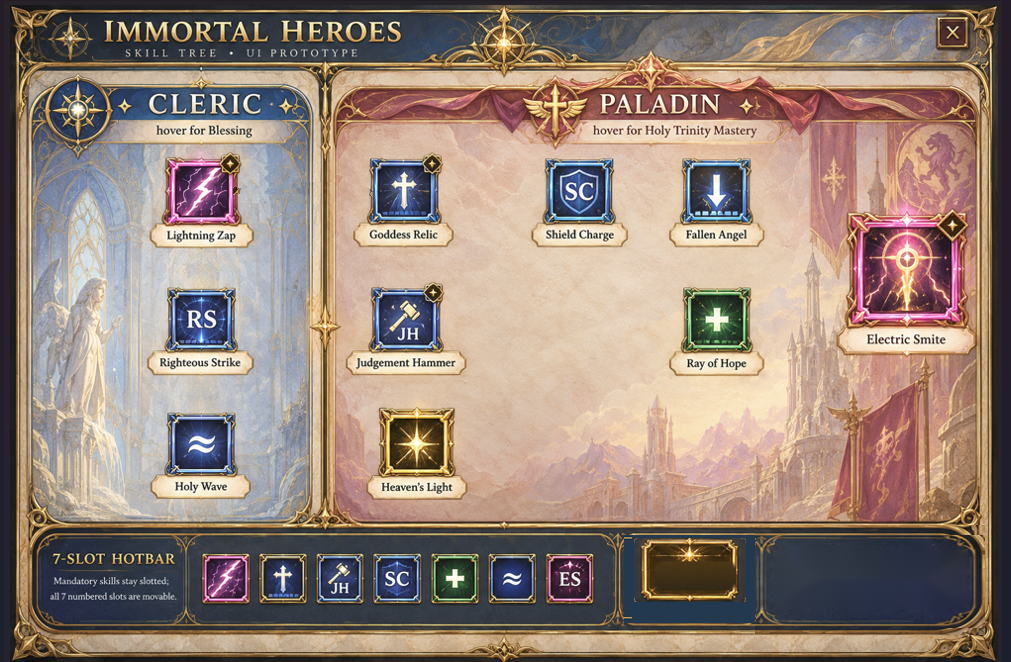
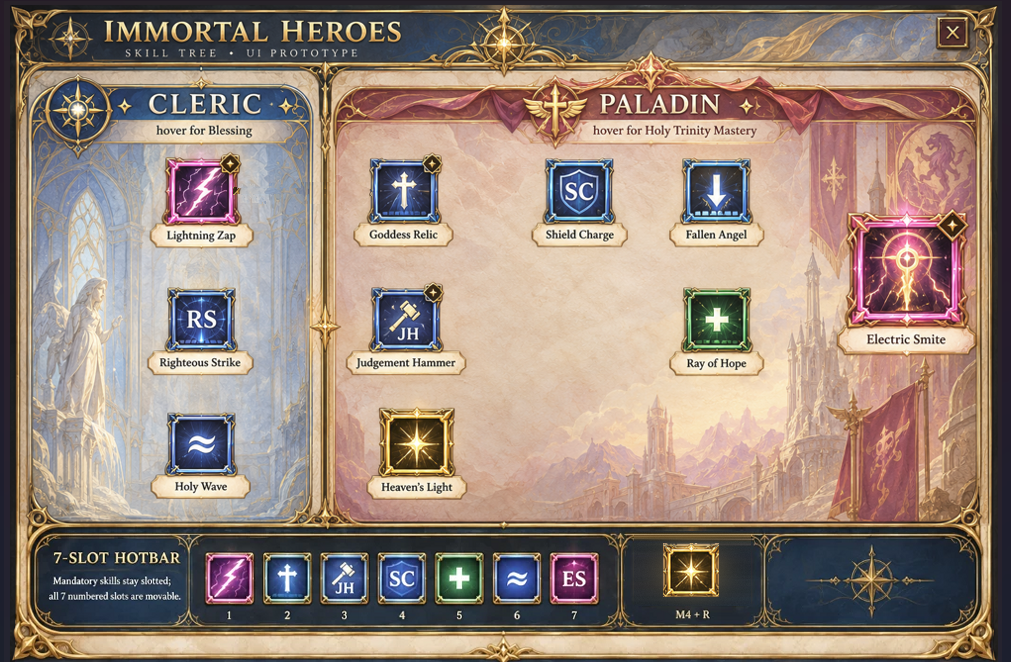
WIP v0.15.0: footer/Grace/Tier-button assets + preview tooling (pending approval)
- tools/build_ui_assets.py: composites approved target footer onto the
  reference, slot-style Grace box, Tier +/- buttons, Confirm plaque
- tools/render_preview.py + docs/previews/PREVIEW_v0.15.0_*.png
- Source art kept in docs/source_art/
Code not yet updated to use the new assets.

Claude-Session: https://claude.ai/code/session_01XpdCpqX2P5cHTKtzw8jsN7

Changed region(s): [[0.0, 0.7855, 0.9812, 1.0]]

diff --git a/tools/build_ui_assets.py b/tools/build_ui_assets.py
@@ -1,0 +1,176 @@
+"""Builds Immortal Heroes UI assets from source art.
+
+v0.15.0:
+- Footer (Hotbar area) of the Cleric/Paladin reference is replaced with the approved target
+  footer (docs/source_art/Footer_Target.webp), mapped onto the reference frame geometry.
+- The wide Heaven's Light box becomes a slot-style Grace box (slightly larger than a skill slot).
+- Generates the +/- Tier buttons and the CONFIRM plaque.
+
+Usage: python3 tools/build_ui_assets.py   (needs Pillow + numpy)
+"""
+import os
+import numpy as np
+from PIL import Image, ImageDraw, ImageFilter
+
+ROOT = os.path.dirname(os.path.dirname(os.path.abspath(__file__)))
+SRC = os.path.join(ROOT, "docs", "source_art")
+OUT = os.path.join(ROOT, "ImmortalHeroesAssets")
+
+REF_W, REF_H = 1011, 662
+SEAM_Y = 526  # inside the dark band between the tree panels and the footer frame
+
+# Reference -> target(1011-space) mapping measured from the frame geometry.
+#   x: ref 17..990  -> tgt 16..1000
+#   y: ref 523.5..656.5 -> tgt 521.5..652
+AX = (1000 - 16) / (990 - 17)
+BX = 16 - 17 * AX
+AY = (652 - 521.5) / (656.5 - 523.5)
+BY = 521.5 - 523.5 * AY
+
+# Grace box geometry (reference space).
+SLOT = 49            # numbered hotbar slot size in the new footer
+GRACE = 56           # Grace slot: slightly larger, distinct gold frame
+GRACE_CX = 691
+GRACE_BOTTOM = 597   # bottoms align with the numbered slots
+
+
+def composite_footer(ref, target):
+    tw, th = target.size
+    sx, sy = tw / 1011.0, th / 662.0
+    # PIL affine maps output(ref) pixel -> input(target original) pixel.
+    warped = target.transform(
+        (REF_W, REF_H), Image.AFFINE,
+        (AX * sx, 0, BX * sx, 0, AY * sy, BY * sy),
+        resample=Image.BICUBIC)
+    out = ref.copy()
+    # Only inside the outer frame (x 15..993); the window margin keeps the reference pixels.
+    out.paste(warped.crop((15, SEAM_Y, 993, REF_H)), (15, SEAM_Y))
+    # 3px cross-fade so the seam is invisible.
+    for i in range(3):
+        y = SEAM_Y - 3 + i
+        a = (i + 1) / 4.0
+        row = Image.blend(ref.crop((15, y, 993, y + 1)), warped.crop((15, y, 993, y + 1)), a)
+        out.paste(row, (15, y))
+    return out
+
+
+def erase_box(img, box):
+    """Fill a rectangle by interpolating between the panel texture on its left and right."""
+    x0, y0, x1, y1 = box
+    a = np.asarray(img, dtype=np.float32).copy()
+    left = a[y0:y1, x0 - 4:x0].mean(axis=1)
+    right = a[y0:y1, x1:x1 + 4].mean(axis=1)
+    w = x1 - x0
+    t = (np.arange(w, dtype=np.float32) + 0.5) / w
+    fill = left[:, None, :] * (1 - t[None, :, None]) + right[:, None, :] * t[None, :, None]
+    # Re-introduce the panel's fine grain so the patch is not perfectly smooth.
+    rng = np.random.default_rng(7)
+    fill += rng.normal(0, 1.2, fill.shape[:2])[:, :, None]
+    a[y0:y1, x0:x1] = np.clip(fill, 0, 255)
+    return Image.fromarray(a.astype(np.uint8))
+
+
+def grace_slot(ref_original):
+    # The approved Heaven's Light node art (gold frame + star) from the tree.
+    crop = (380, 407, 453, 477)
+    icon = ref_original.crop(crop).convert("RGBA")
+    h = int(round(GRACE * (crop[3] - crop[1]) / float(crop[2] - crop[0])))
+    icon = icon.resize((GRACE, h), Image.LANCZOS)
+    # Alpha from "not parchment": the frame is gold/dark, the corners outside it are pale pink.
+    a = np.asarray(icon, dtype=np.float32)
+    r, g, b = a[..., 0], a[..., 1], a[..., 2]
+    parchment = (r > 175) & (g > 140) & (b > 130) & (r - b < 70)
+    alpha = np.where(parchment, 0, 255).astype(np.uint8)
+    # Only knock out parchment that touches the outside (keep the bright star inside).
+    keep = np.zeros_like(alpha)
+    keep[4:-4, 4:-4] = 255
+    alpha = np.maximum(alpha, keep)
+    icon.putalpha(Image.fromarray(alpha).filter(ImageFilter.GaussianBlur(0.6)))
+    return icon
+
+
+def add_glow(img, center, radius, color, strength):
+    glow = Image.new("RGBA", img.size, (0, 0, 0, 0))
+    d = ImageDraw.Draw(glow)
+    cx, cy = center
+    d.ellipse((cx - radius, cy - radius * 0.7, cx + radius, cy + radius * 0.7), fill=color + (strength,))
+    glow = glow.filter(ImageFilter.GaussianBlur(radius * 0.45))
+    return Image.alpha_composite(img.convert("RGBA"), glow)
+
+
+def build_backdrop():
+    ref = Image.open(os.path.join(SRC, "Cleric_Paladin_Reference_v0.14.png")).convert("RGB")
+    target = Image.open(os.path.join(SRC, "Footer_Target.webp")).convert("RGB")
+    out = composite_footer(ref, target)
+
+    # Remove the wide HEAVEN'S LIGHT box (keep the baked "M4 + R" under it).
+    out = erase_box(out, (634, 531, 751, 606))
+
+    slot = grace_slot(ref)
+    gx0 = GRACE_CX - slot.width // 2
+    gy0 = GRACE_BOTTOM - slot.height
+    out = add_glow(out, (GRACE_CX, gy0 + slot.height // 2), 44, (255, 200, 90), 105)
+    out.alpha_composite(slot, (gx0, gy0))
+    return out.convert("RGBA")
+
+
+def rounded_button(size, glyph, scale=4):
+    s = size * scale
+    img = Image.new("RGBA", (s, s), (0, 0, 0, 0))
+    d = ImageDraw.Draw(img)
+    r = int(s * 0.22)
+    gold = (236, 190, 92, 255)
+    dark_gold = (120, 84, 30, 255)
+    d.rounded_rectangle((0, 0, s - 1, s - 1), radius=r, fill=dark_gold)
+    d.rounded_rectangle((scale, scale, s - 1 - scale, s - 1 - scale), radius=r - scale, fill=gold)
+    inset = int(scale * 2.2)
+    # vertical navy gradient interior
+    inner = Image.new("RGBA", (s - 2 * inset, s - 2 * inset))
+    for y in range(inner.height):
+        t = y / max(1, inner.height - 1)
+        c = (int(28 - 12 * t), int(46 - 20 * t), int(78 - 30 * t), 255)
+        ImageDraw.Draw(inner).line((0, y, inner.width, y), fill=c)
+    m = Image.new("L", inner.size, 0)
+    ImageDraw.Draw(m).rounded_rectangle((0, 0, inner.width - 1, inner.height - 1), radius=r - inset, fill=255)
+    img.paste(inner, (inset, inset), m)
+    # glyph
+    t = int(s * 0.10)
+    L = int(s * 0.27)
+    c = s // 2
+    d.rectangle((c - L, c - t // 2, c + L, c + t // 2), fill=gold)
+    if glyph == "+":
+        d.rectangle((c - t // 2, c - L, c + t // 2, c + L), fill=gold)
+    return img.resize((size * 2, size * 2), Image.LANCZOS)  # stored at 2x for crispness
+
+
+def confirm_plaque(w, h, scale=4):
+    W, H = w * scale, h * scale
+    img = Image.new("RGBA", (W, H), (0, 0, 0, 0))
+    d = ImageDraw.Draw(img)
+    gold = (236, 190, 92, 255)
+    dark_gold = (110, 76, 26, 255)
+    notch = int(H * 0.32)
+    poly = lambda i: [(notch + i, i), (W - notch - i, i), (W - 1 - i, H // 2), (W - notch - i, H - 1 - i),
+                      (notch + i, H - 1 - i), (i, H // 2)]
+    d.polygon(poly(0), fill=dark_gold)
+    d.polygon(poly(scale), fill=gold)
+    d.polygon(poly(int(scale * 2.4)), fill=(20, 34, 62, 255))
+    d.line(poly(int(scale * 4.2)) + [poly(int(scale * 4.2))[0]], fill=(200, 155, 70, 150), width=scale)
+    for cx in (int(H * 0.55), W - int(H * 0.55)):
+        cy = H // 2
+        k = int(H * 0.09)
+        d.polygon([(cx, cy - k), (cx + k, cy), (cx, cy + k), (cx - k, cy)], fill=gold)
+    return img.resize((w * 2, h * 2), Image.LANCZOS)
+
+
+def main():
+    backdrop = build_backdrop()
+    backdrop.save(os.path.join(OUT, "Cleric_Paladin_Reference.png"))
+    rounded_button(16, "+").save(os.path.join(OUT, "Tier_Plus.png"))
+    rounded_button(16, "-").save(os.path.join(OUT, "Tier_Minus.png"))
+    confirm_plaque(160, 42).save(os.path.join(OUT, "Confirm_Plaque.png"))
+    print("UI assets written to", OUT)
+
+
+if __name__ == "__main__":
+    main()

diff --git a/tools/render_preview.py b/tools/render_preview.py
@@ -1,0 +1,49 @@
+"""Renders in-game-size (1180x772) previews of the Skill Tree from the built assets.
+Approximation only: uses DejaVu Serif in place of Valheim's Averia Serif."""
+import os
+from PIL import Image, ImageDraw, ImageFont, ImageFilter
+
+ROOT = os.path.dirname(os.path.dirname(os.path.abspath(__file__)))
+A = os.path.join(ROOT, "ImmortalHeroesAssets")
+FONT = "/usr/share/fonts/truetype/dejavu/DejaVuSerif-Bold.ttf"
+S = 1180 / 1011.0
+
+
+def R(v):
+    return int(round(v * S))
+
+
+def render(pending, out_path, node=(405, 375, (370, 287, 442, 355))):
+    base = Image.open(os.path.join(A, "Cleric_Paladin_Reference.png")).convert("RGBA")
+    plus = Image.open(os.path.join(A, "Tier_Plus.png"))
+    minus = Image.open(os.path.join(A, "Tier_Minus.png"))
+    plaque = Image.open(os.path.join(A, "Confirm_Plaque.png"))
+    im = base.resize((1180, 772), Image.LANCZOS)
+    cx_ref, plate_bottom, icon = node
+    g = Image.new("RGBA", im.size, (0, 0, 0, 0))
+    ImageDraw.Draw(g).rounded_rectangle((R(icon[0] - 4), R(icon[1] - 4), R(icon[2] + 4), R(icon[3] + 4)),
+                                        radius=R(8), outline=(255, 214, 110, 230), width=R(3))
+    im = Image.alpha_composite(im, g.filter(ImageFilter.GaussianBlur(3)))
+    b, cx, y = R(18), R(cx_ref), R(plate_bottom + 3)
+    if pending:
+        im.alpha_composite(minus.resize((b, b), Image.LANCZOS), (cx - R(3) - b, y))
+        im.alpha_composite(plus.resize((b, b), Image.LANCZOS), (cx + R(3), y))
+        pw, ph = R(160), R(42)
+        px, py = R(872) - pw // 2, R(578) - ph // 2
+        im.alpha_composite(plaque.resize((pw, ph), Image.LANCZOS), (px, py))
+        d = ImageDraw.Draw(im)
+        f, f2 = ImageFont.truetype(FONT, R(15)), ImageFont.truetype(FONT, R(9))
+        for text, font, ty, col in (("CONFIRM", f, R(6), (250, 214, 120)), ("1 PENDING", f2, R(26), (236, 220, 180))):
+            w = d.textlength(text, font=font)
+            d.text((px + pw / 2 - w / 2 + 1, py + ty + 1), text, font=font, fill=(0, 0, 0, 200))
+            d.text((px + pw / 2 - w / 2, py + ty), text, font=font, fill=col)
+    else:
+        im.alpha_composite(plus.resize((b, b), Image.LANCZOS), (cx - b // 2, y))
+    im.convert("RGB").save(out_path)
+
+
+if __name__ == "__main__":
+    out = os.path.join(ROOT, "docs", "previews")
+    render(True, os.path.join(out, "PREVIEW_v0.15.0_pending.png"))
+    render(False, os.path.join(out, "PREVIEW_v0.15.0_selected.png"))
+    print("previews written")
